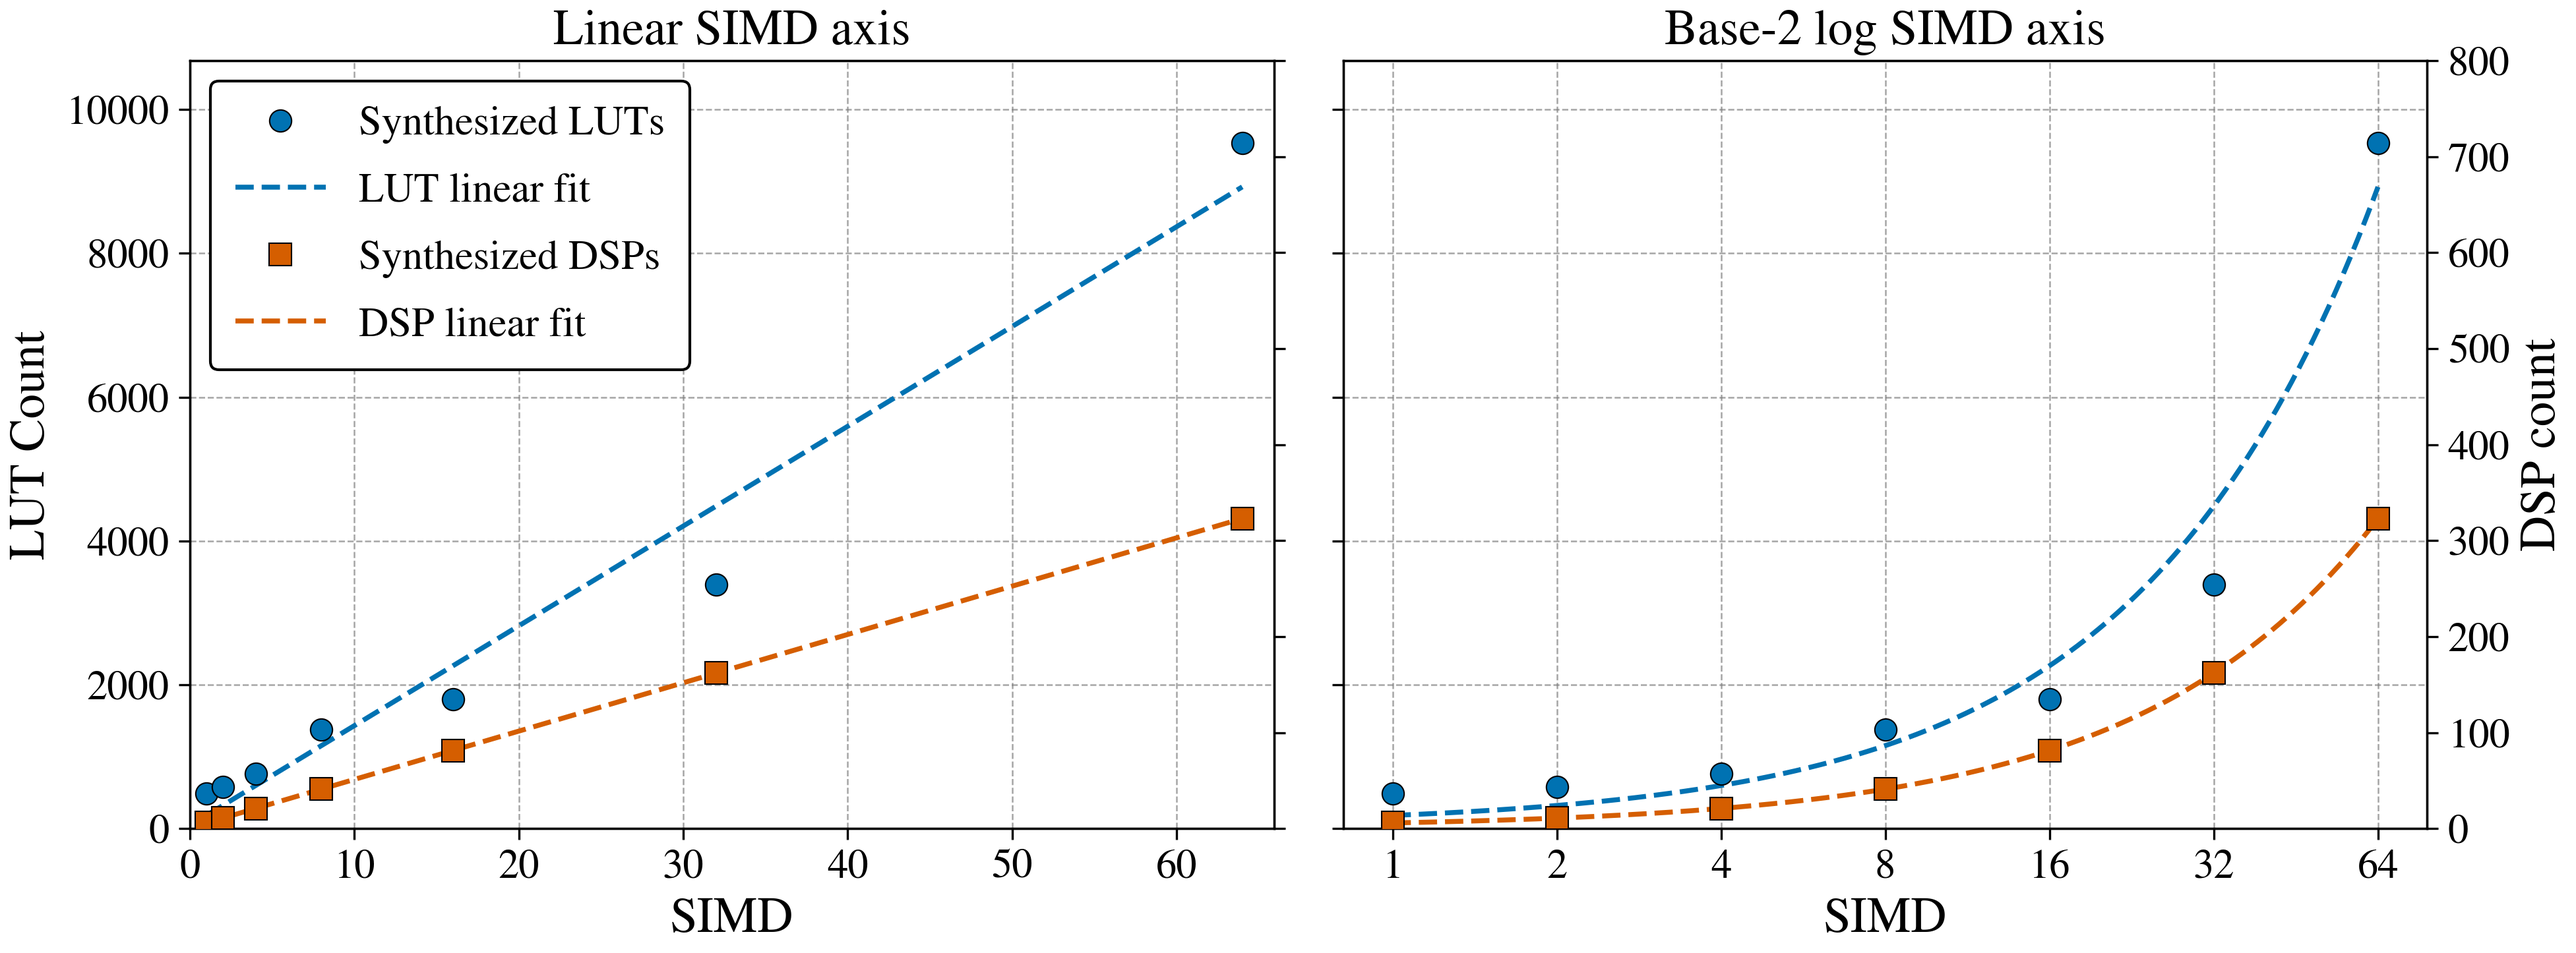
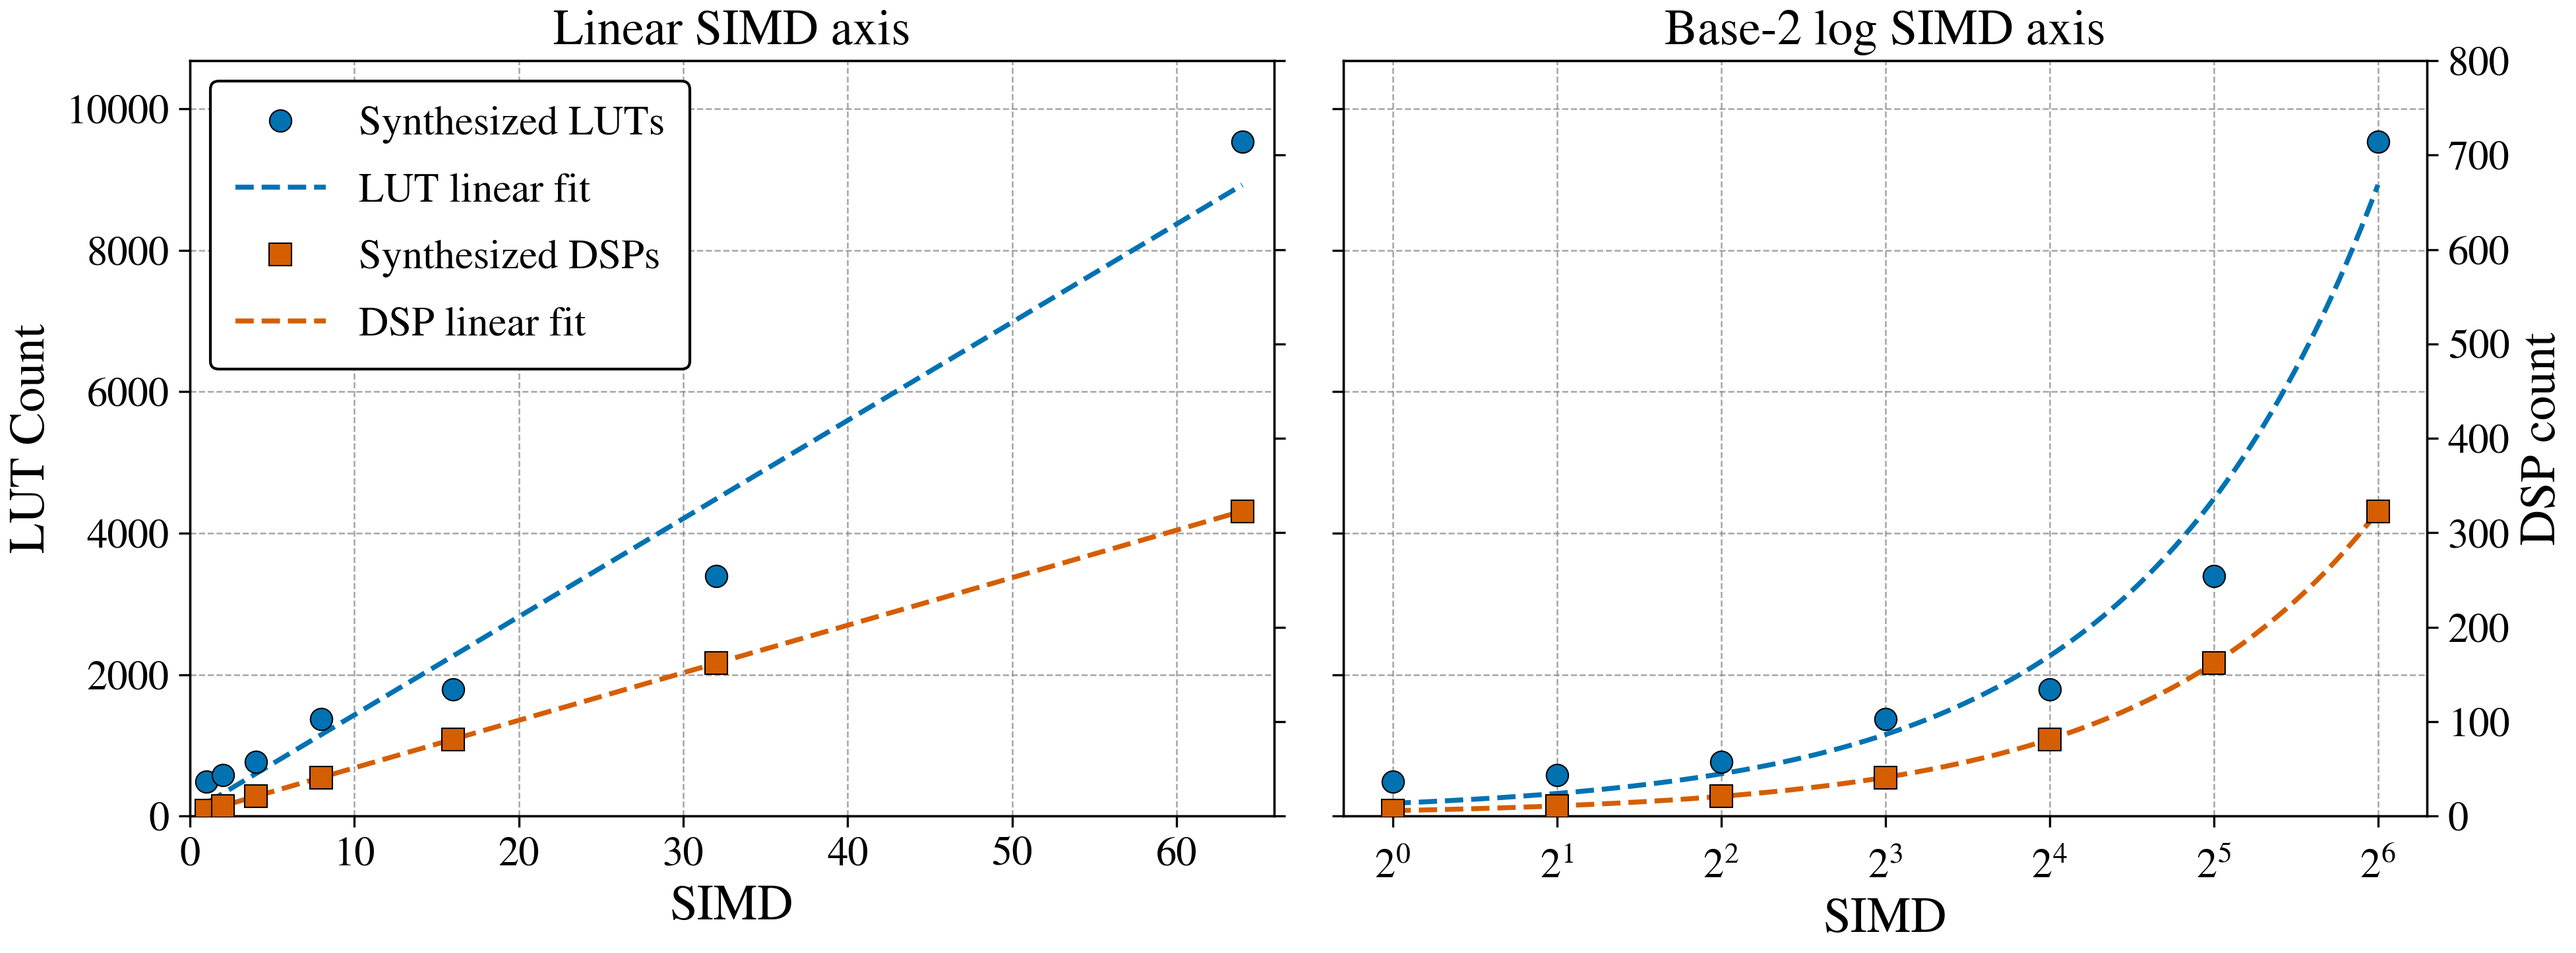
m

diff --git a/evaluation/layernorm/SIMD_sweep/scripts/plot_resources.py b/evaluation/layernorm/SIMD_sweep/scripts/plot_resources.py
@@ -119,6 +119,13 @@ LABEL_LUT_FIT = "LUT linear fit"
 LABEL_DSP_DATA = "Synthesized DSPs"
 LABEL_DSP_FIT = "DSP linear fit"
 
+# Extra padding (points) between the base-2 log x-axis tick *labels* and the tick
+# marks. The SIMD ticks are rendered as ``2^k`` powers, whose raised exponent
+# would otherwise crowd the axis; the default x tick pad is ~3.5 pt, so this
+# widens the gap enough that the superscripts clear the tick lines. Applied to
+# the log panels only (the linear panel's ticks are unchanged).
+LOG_XTICK_PAD = 8.0
+
 
 def load_resources_csv(
     path: Path,
@@ -172,6 +179,22 @@ def format_fit_line(name: str, fit: tuple[float, float, float]) -> str:
     """
     m, intercept, r_squared = fit
     return f"{name} = {m:.6g} * SIMD + {intercept:.6g}   (R^2 = {r_squared:.6f})"
+
+
+def power_of_two_label(value: float) -> str:
+    """Format a power-of-two SIMD ``value`` as a ``$2^{k}$`` mathtext label.
+
+    The SIMD sweep samples exact powers of two (1, 2, 4, ...), so the base-2 log
+    x-axis is labelled with the exponent (``2^0, 2^1, ...``) rather than the raw
+    value. ``k`` is recovered as ``round(log2(value))``, which is robust to any
+    floating-point noise in the stored SIMD column. If ``value`` is not an exact
+    power of two (``2**k != value``) the exponent would be misleading, so the
+    plain integer is returned instead as a safe fallback.
+    """
+    k = int(round(np.log2(value)))
+    if 2 ** k == int(round(value)):
+        return rf"$2^{{{k}}}$"
+    return str(int(round(value)))
 
 
 def write_fit_parameters(
@@ -348,11 +371,15 @@ def draw_dual_axis(
     # --- X-axis ---------------------------------------------------------------
     if log_x:
         # Base-2 log x-axis (SIMD is a power of two): one major tick per sampled
-        # SIMD, labelled with its integer value, base-2 minor ticks suppressed.
+        # SIMD, labelled as the corresponding power of two (2^0, 2^1, ...) via
+        # STIX mathtext, base-2 minor ticks suppressed. The tick labels sit a
+        # touch further from the axis (LOG_XTICK_PAD) so the raised exponents
+        # clear the tick marks without overlap.
         ax_lut.set_xscale("log", base=2)
         ax_lut.set_xticks(simd)
-        ax_lut.set_xticklabels([str(int(s)) for s in simd])
+        ax_lut.set_xticklabels([power_of_two_label(s) for s in simd])
         ax_lut.xaxis.set_minor_locator(NullLocator())
+        ax_lut.tick_params(axis="x", which="major", pad=LOG_XTICK_PAD)
     else:
         # Linear x-axis: evenly-spaced integer ticks chosen by matplotlib. The
         # measured points stay visible as markers, so regular ticks read cleaner
